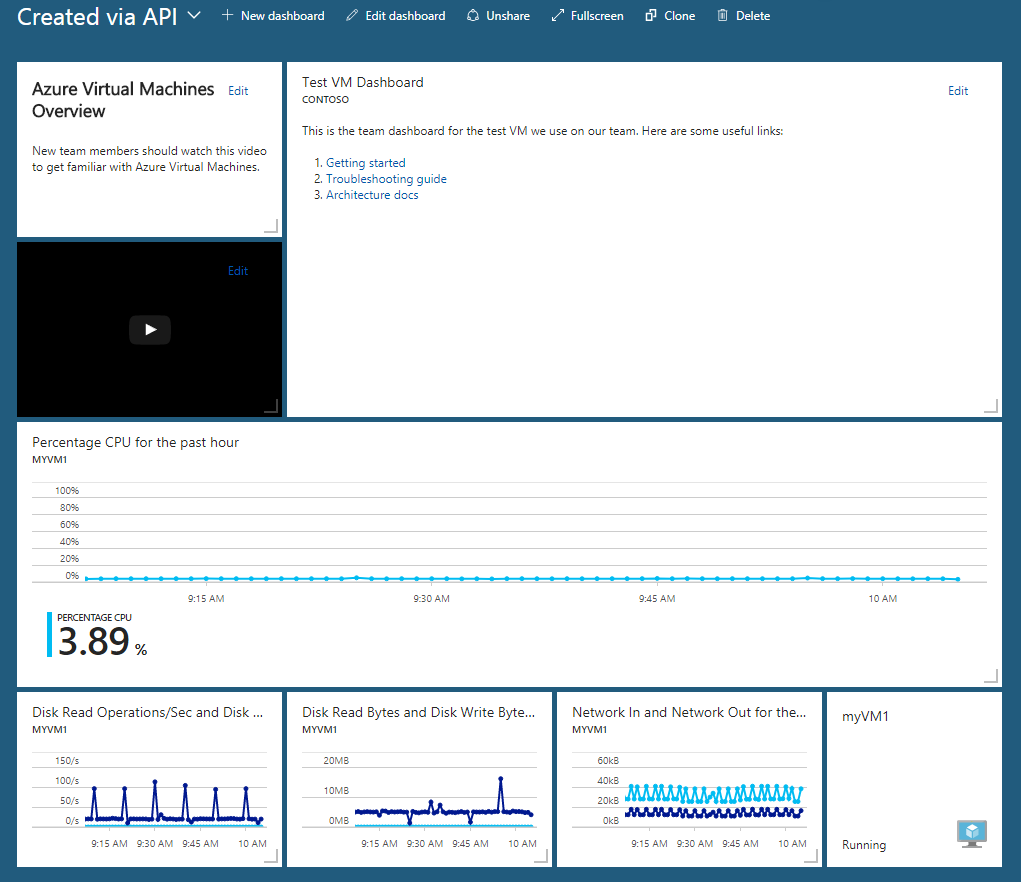
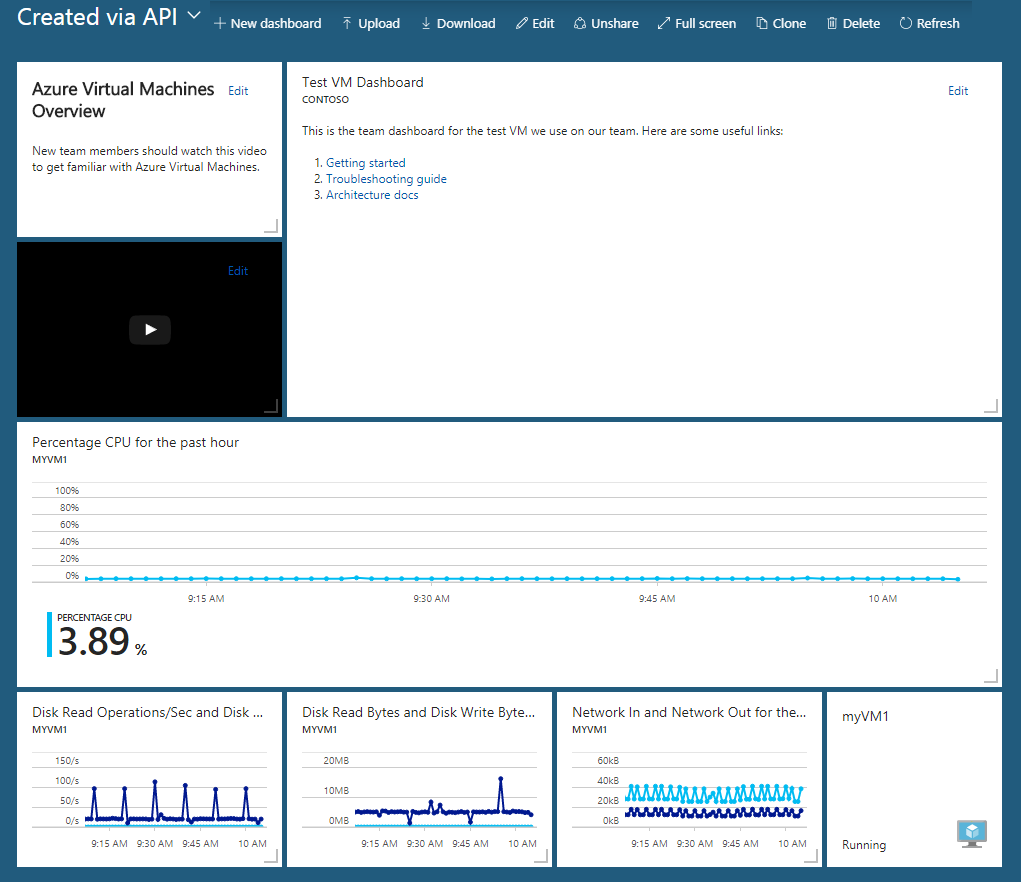
Refresh create dashboards programmatically

Changed region(s): [[0.2125, 0.0, 0.7894, 0.0306], [0.8805, 0.0, 0.9412, 0.0306], [0.8198, 0.0, 0.8501, 0.0306]]

diff --git a/articles/azure-portal/azure-portal-dashboards-create-programmatically.md b/articles/azure-portal/azure-portal-dashboards-create-programmatically.md
@@ -12,23 +12,23 @@ ms.devlang: NA
 ms.topic: conceptual
 ms.tgt_pltfrm: NA
 ms.workload: na
-ms.date: 01/29/2020
+ms.date: 03/23/2020
 ms.author: mblythe
 
 ---
 # Programmatically create Azure Dashboards
 
-This document walks through the process of programmatically creating and publishing Azure dashboards. The dashboard shown below is referenced throughout the document.
+This article walks you through the process of programmatically creating and publishing Azure dashboards. The dashboard shown below is referenced throughout the document.
 
 ![sample dashboard](./media/azure-portal-dashboards-create-programmatically/sample-dashboard.png)
 
 ## Overview
 
-Shared dashboards in the [Azure portal](https://portal.azure.com) are [resources](../azure-resource-manager/management/overview.md) just like virtual machines and storage accounts. You can manage resources programmatically by using the [Azure Resource Manager REST APIs](/rest/api/), the [Azure CLI](/cli/azure), and [Azure PowerShell commands](/powershell/azure/get-started-azureps).  
+Shared dashboards in the [Azure portal](https://portal.azure.com) are [resources](../azure-resource-manager/management/overview.md) just like virtual machines and storage accounts. You can manage resources programmatically by using the [Azure Resource Manager REST APIs](/rest/api/), the [Azure CLI](/cli/azure), and [Azure PowerShell commands](/powershell/azure/get-started-azureps).
 
 Many features build on these APIs to make resource management easier. Each of these APIs and tools offers ways to create, list, retrieve, modify, and delete resources. Since dashboards are resources, you can pick your favorite API or tool to use.
 
-Whichever tools you use, you need to construct a JSON representation of your dashboard object. This object contains information about the tiles on the dashboard. It includes sizes, positions, resources they're bound to, and any user customizations.
+Whichever tools you use, to create a dashboard programmatically, you construct a JSON representation of your dashboard object. This object contains information about the tiles on the dashboard. It includes sizes, positions, resources they're bound to, and any user customizations.
 
 The most practical way to build up this JSON document is to use the Azure portal. You can interactively add and position your tiles. Then export the JSON and create a template from the result for later use in scripts, programs, and deployment tools.
 
@@ -48,7 +48,7 @@ Others have fixed sizes to choose from in their context menu.
 
 ## Share the dashboard
 
-After you configure the dashboard, the next steps are to publish the dashboard using the **Share** command and then use the Resource Explorer to fetch the JSON.
+After you configure the dashboard, the next step is to publish the dashboard using the **Share** command.
 
 ![sharing a dashboard](./media/azure-portal-dashboards-create-programmatically/share-command.png)
 
@@ -58,13 +58,9 @@ Selecting **Share** prompts you to choose which subscription and resource group 
 
 ## Fetch the JSON representation of the dashboard
 
-Publishing only takes a few seconds.  When it's done, the next step is to go to the [Resource Explorer](https://portal.azure.com/#blade/HubsExtension/ArmExplorerBlade) to fetch the JSON.
+Publishing only takes a few seconds. When it's done, the next step is to fetch the JSON using the **Download** command.
 
-![browse Resource Explorer](./media/azure-portal-dashboards-create-programmatically/search-resource-explorer.png)
-
-From the Resource Explorer, navigate to the subscription and resource group that you chose. Next, select the newly published dashboard resource to reveal the JSON.
-
-![view JSON in Resource Explorer](./media/azure-portal-dashboards-create-programmatically/resource-explorer-json-detail.png)
+![download JSON representation](./media/azure-portal-dashboards-create-programmatically/download-command.png)
 
 ## Create a template from the JSON
 
@@ -123,9 +119,6 @@ Declare required template metadata and the parameters at the top of the JSON tem
 
     ... rest of template omitted ...
 ```
-
-You can see the full, working template at the end of this document.
-
 Once you've configured your template, deploy it using any of the following methods:
 
 * [REST APIs](/rest/api/resources/deployments)
@@ -133,11 +126,11 @@ Once you've configured your template, deploy it using any of the following metho
 * [Azure CLI](/cli/azure/group/deployment#az-group-deployment-create)
 * [The Azure portal template deployment page](https://portal.azure.com/#create/Microsoft.Template)
 
-Here are two versions of our example dashboard JSON. The first is the version that we exported from the portal that was already bound to a resource. The second is the template version that can be programmatically bound to any virtual machine and deployed using Azure Resource Manager.
+Next you'll see two versions of our example dashboard JSON. The first is the version that we exported from the portal that was already bound to a resource. The second is the template version that can be programmatically bound to any virtual machine and deployed using Azure Resource Manager.
 
-## JSON representation of our example dashboard before templating
+### JSON representation of our example dashboard before templating
 
-This example shows what you can expect to see if you followed along with this article. The instructions exported the JSON representation of a dashboard that is already deployed. The hard-coded resource identifiers that show that this dashboard is pointing at a specific Azure virtual machine.
+This example shows what you can expect to see if you followed along with this article. The instructions exported the JSON representation of a dashboard that is already deployed. The hard-coded resource identifiers show that this dashboard is pointing at a specific Azure virtual machine.
 
 ```json
 
@@ -659,6 +652,6 @@ This example deploys a dashboard by itself, but the template language lets you d
         }
     ]
 }
-
-
 ```
+
+Now that you've seen an example of using a parameterized template to deploy a dashboard, you can try deploying the template by using the [Azure Resource Manager REST APIs](/rest/api/), the [Azure CLI](/cli/azure), or [Azure PowerShell commands](/powershell/azure/get-started-azureps).
